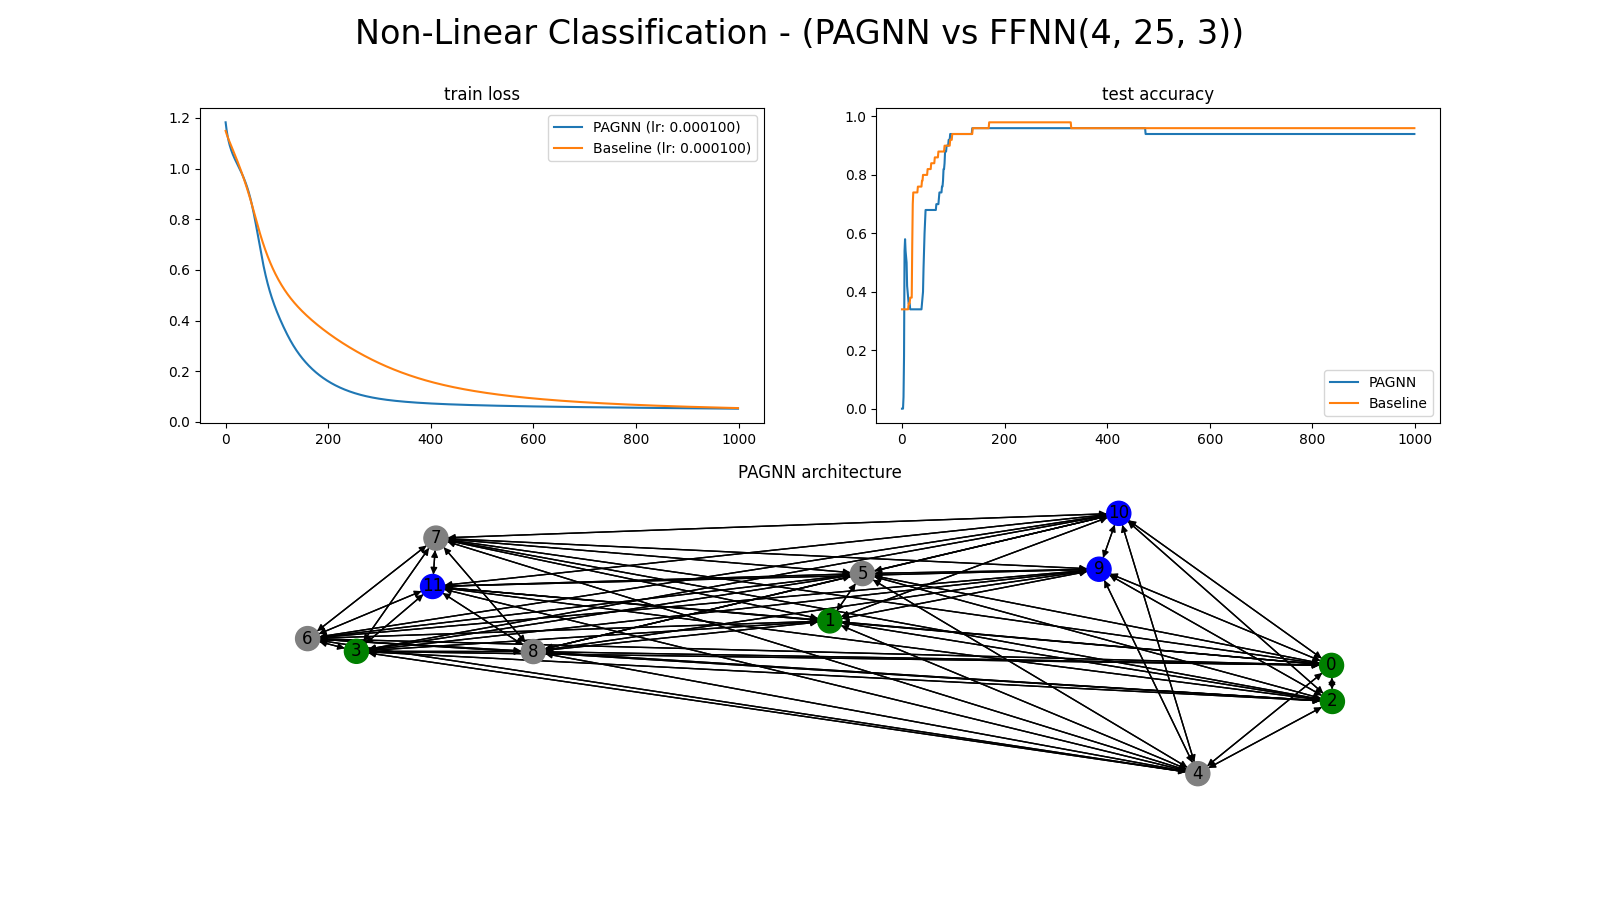
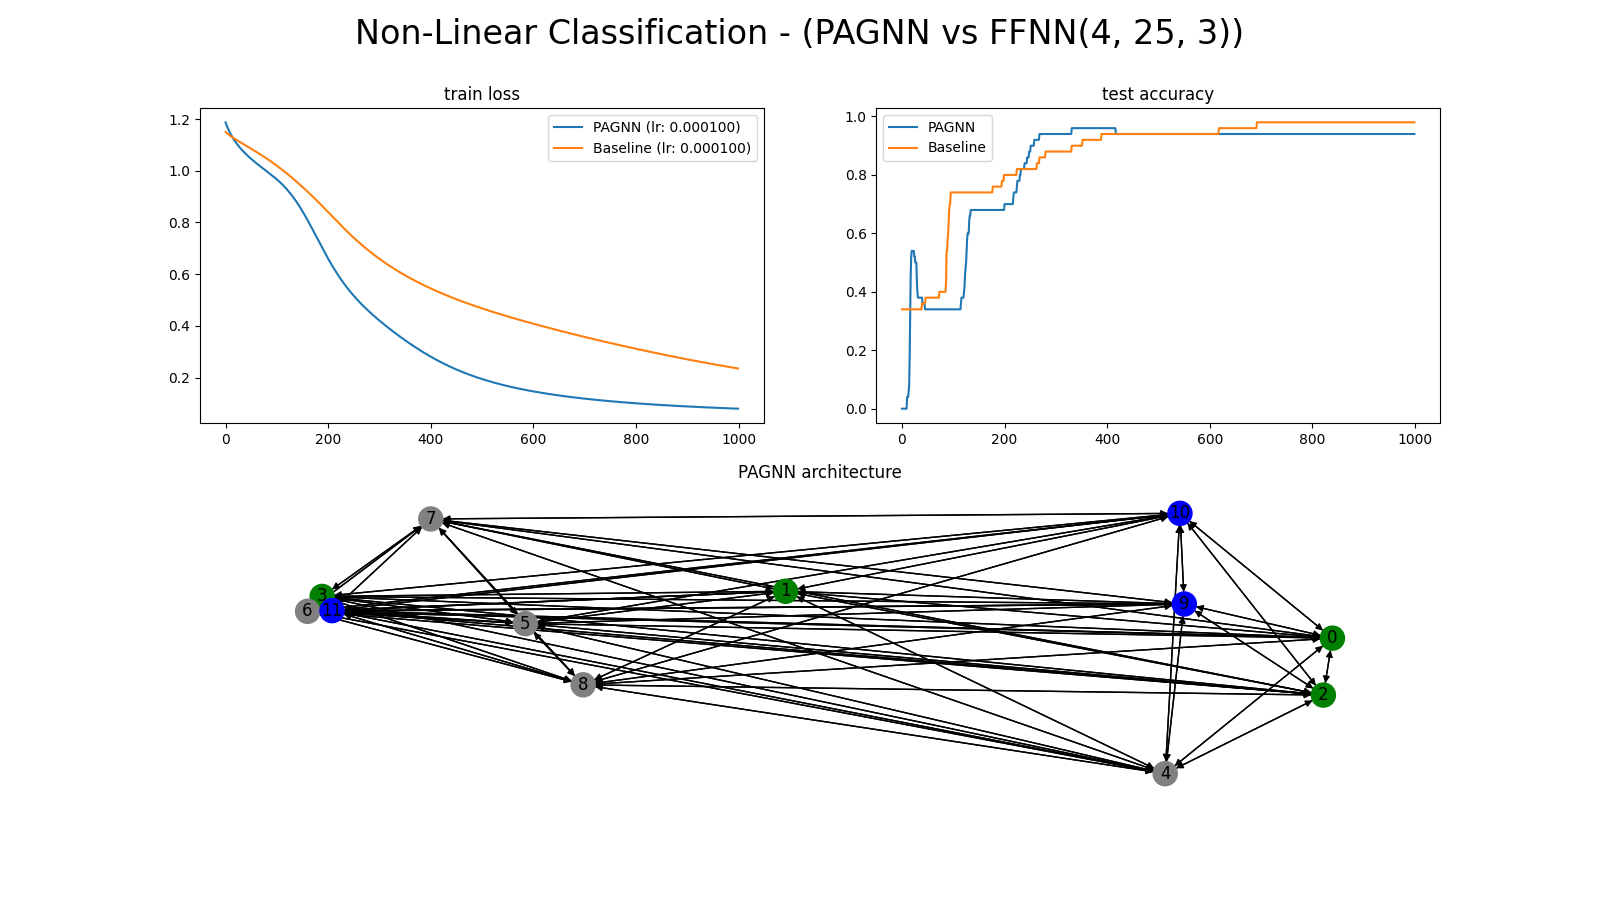
use unvectorized batching (bs=10)

diff --git a/comparisons/non_linear_classification.py b/comparisons/non_linear_classification.py
@@ -63,7 +63,7 @@ if __name__ == '__main__':
     train_T, test_T = T[:split], T[split:]
 
     # create data loaders
-    batch_size = 1
+    batch_size = 10
     train_dl = DataLoader(TensorDataset(train_X, train_T), batch_size=batch_size)
     test_dl = DataLoader(TensorDataset(test_X, test_T), batch_size=batch_size)
 
@@ -91,7 +91,7 @@ if __name__ == '__main__':
 
                     x = x.float()
 
-                    y = pagnn(x, num_steps=num_steps).unsqueeze(0)
+                    y = pagnn(x, num_steps=num_steps)
                     baseline_y = linear_model(x)
 
                     loss = F.cross_entropy(y, t)
@@ -121,7 +121,7 @@ if __name__ == '__main__':
                 for x, t in test_dl:
                     x = x.float()
 
-                    y = pagnn(x, num_steps=num_steps).unsqueeze(0)
+                    y = pagnn(x, num_steps=num_steps)
                     baseline_y = linear_model(x)
 
                     pred = torch.argmax(y, axis=1)
